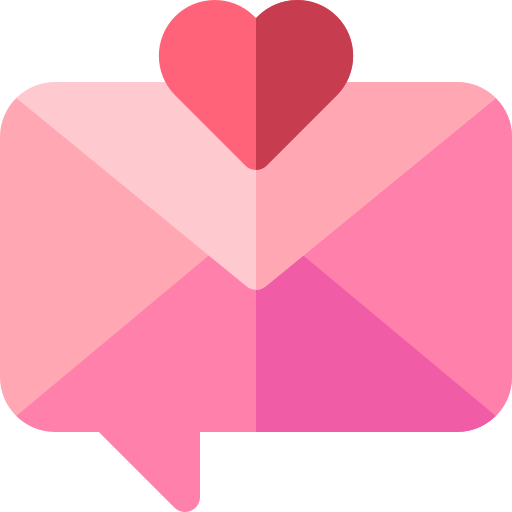
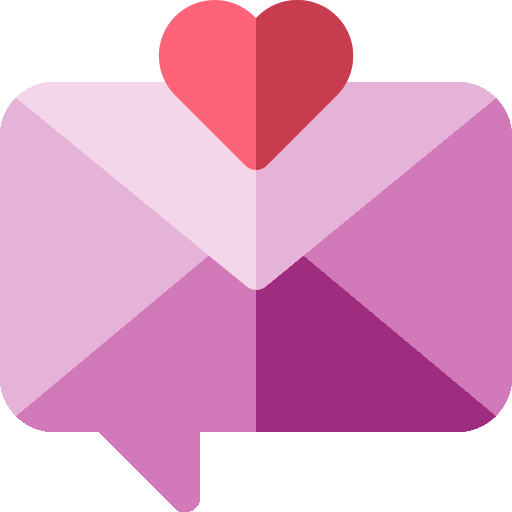
Color scheme fixes.

diff --git a/src/container/Footer/Footer.scss b/src/container/Footer/Footer.scss
@@ -25,7 +25,7 @@
         padding: 1rem;
         border-radius: 10px;
         cursor: pointer;
-        background-color: var(--lightBlue-color);
+        background-color: var(--lightGray-color);
         border: solid #b3abd880 1px;
 
 
@@ -70,7 +70,7 @@
         margin: 0.75rem 0;
         border-radius: 10px;
         cursor: pointer;
-        background-color: var(--lightBlue-color);
+        background-color: var(--secondary-background);
 
         transition: all 0.3s ease-in-out;
 
@@ -79,7 +79,7 @@
             padding: 0.95rem;
             border: solid #b3abd880 1px;
             border-radius: 7px;
-            background-color: var(--lightBlue-color);
+            background-color: var(--lightGray-color);
             font-family: var(--font-base);
             color: var(--gray-color);
             outline: none;
@@ -89,7 +89,7 @@
         }
 
         &:hover {
-            box-shadow: 0 0 25px var(--primary-color);
+            box-shadow: 0 0 25px var(--lightGray-color);
         }
 
        
@@ -106,6 +106,7 @@
         margin: 2rem 0 0 0;
         font-family: var(--font-base);
         cursor: pointer;
+
     }
 
     @media screen and (max-width: 768px) {

diff --git a/src/container/About/About.jsx b/src/container/About/About.jsx
@@ -62,4 +62,4 @@ const About = () => {
   )
 }
 
-export default AppWrap(MotionWrap(About, 'app__about'), 'about', 'app__primarybg')
+export default AppWrap(MotionWrap(About, 'app__about'), 'about', 'app__whitebg')

diff --git a/src/container/Testimonials/Testimonials.jsx b/src/container/Testimonials/Testimonials.jsx
@@ -132,5 +132,5 @@ const Testimonials = () => {
 export default AppWrap(
   MotionWrap(Testimonials, 'app__testimonial'),
   'testimonials',
-  'app__whitebg'
+  'app__primarybg'
 )

diff --git a/src/container/Footer/Footer.jsx b/src/container/Footer/Footer.jsx
@@ -86,5 +86,5 @@ const Footer = () => {
 export default AppWrap(
   MotionWrap(Footer, 'app__footer'),
   'contact',
-  'app__primarybg'
+  'app__whitebg'
 )
